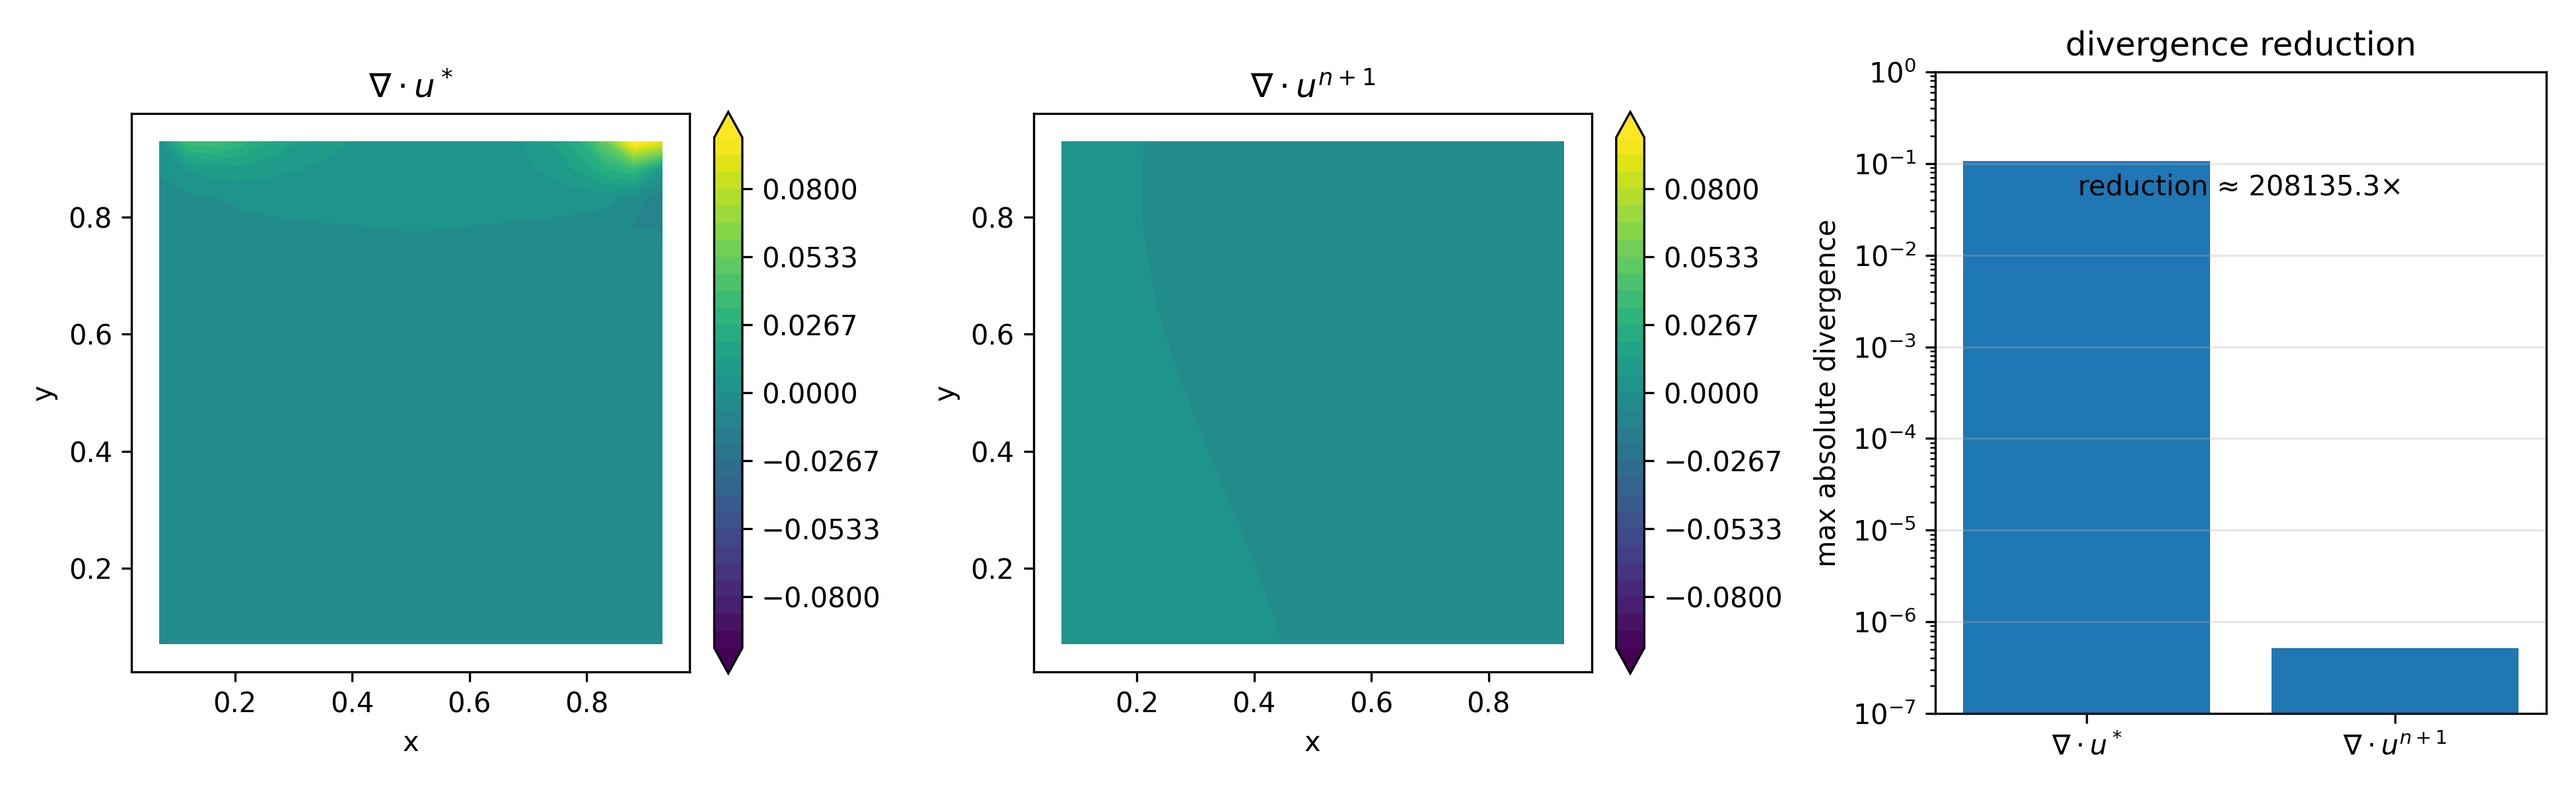
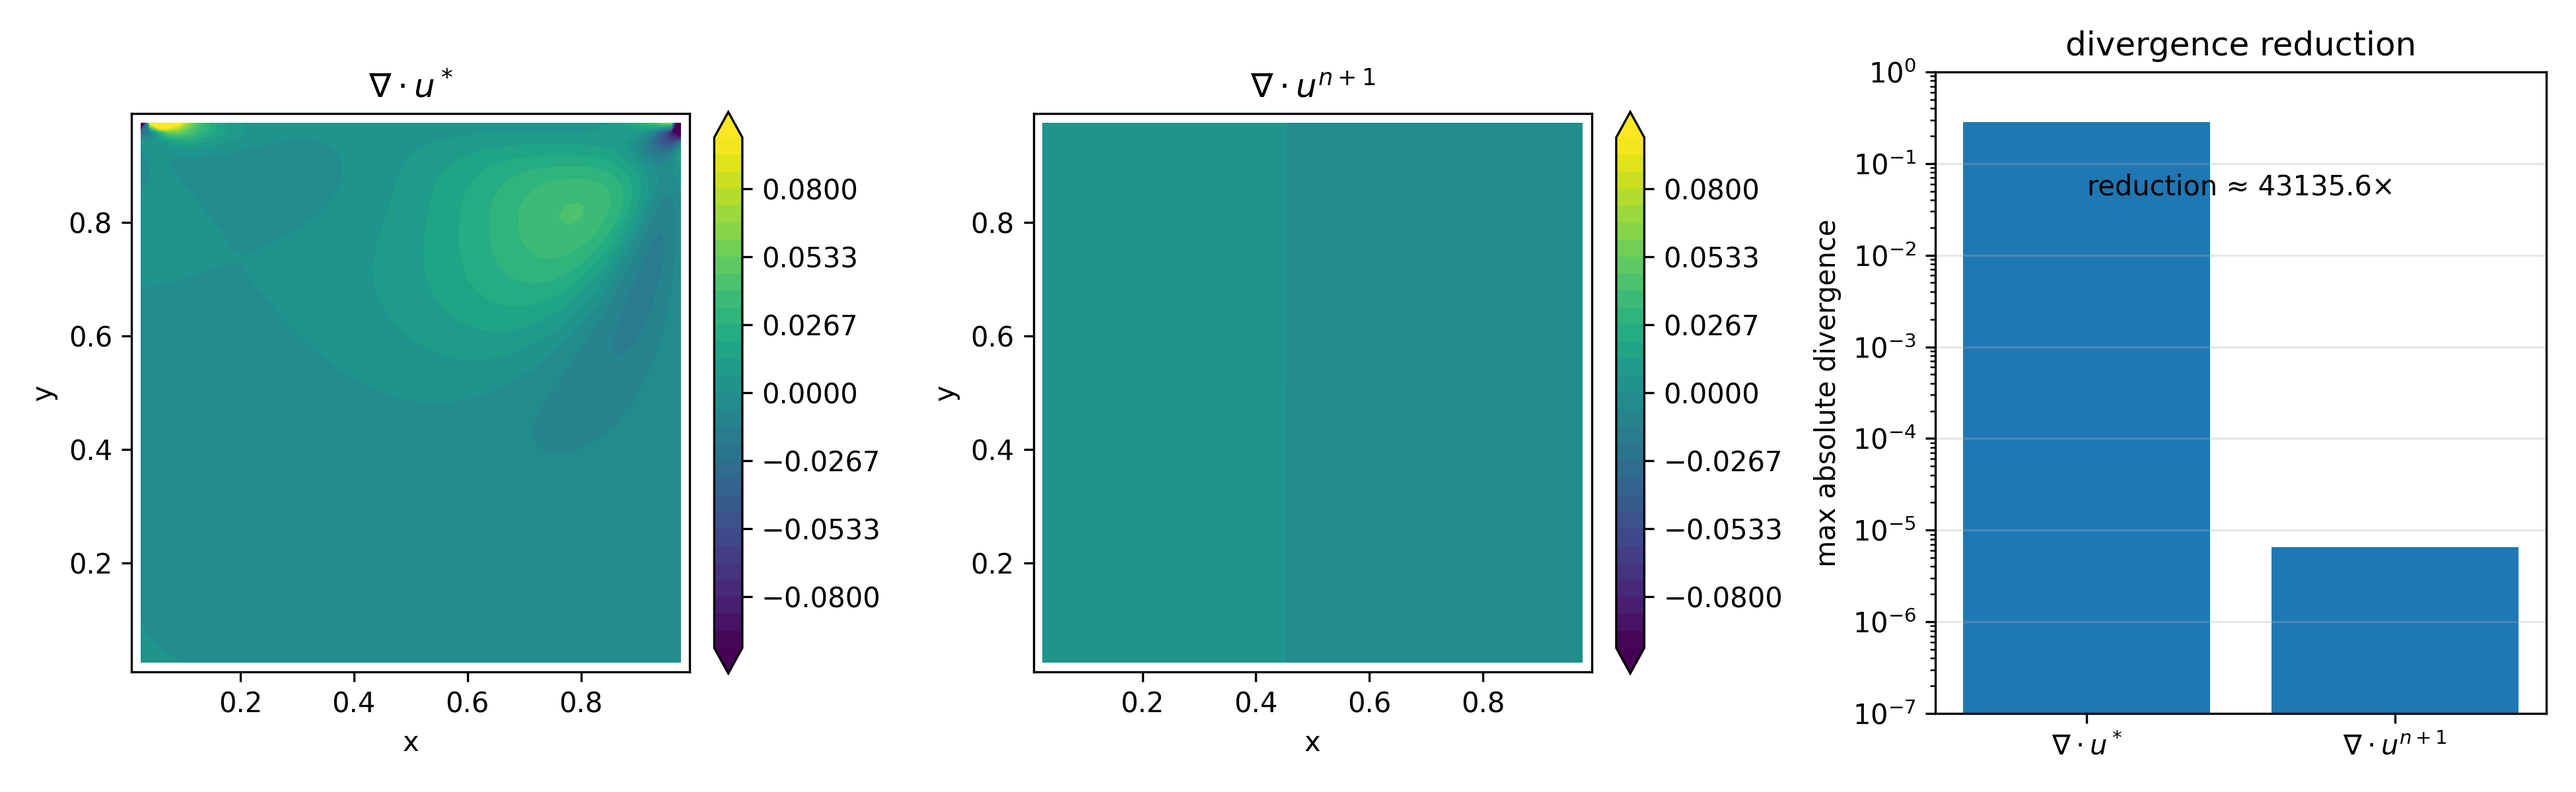
pre-submission update

diff --git a/grid_convergence_study.py b/grid_convergence_study.py
@@ -1,4 +1,5 @@
 import numpy as np
+import time
 
 from core import (
     setup_mac_grid_ghost,
@@ -15,6 +16,8 @@ def run_case(N, nsteps=5000, dt=5e-3, Re=100.0):
     dx, dy, _, _, _, Xp, Yp, _, _, _, _ = setup_mac_grid_ghost(N, N)
     nu = 1.0 / Re
 
+    start_time = time.perf_counter()
+
     history = run_ns_projection_mac_ghost(
         N, N, dx, dy,
         nsteps=nsteps,
@@ -29,10 +32,30 @@ def run_case(N, nsteps=5000, dt=5e-3, Re=100.0):
     final = history[-1]
     u_c, v_c = face_to_center_velocity_ghost(final["u"], final["v"])
 
+    end_time = time.perf_counter()
+
+    runtime_seconds = end_time - start_time
+
+    avg_poisson_iterations = np.mean([
+        frame["poisson_iterations"]
+        for frame in history
+    ])
+
+    max_poisson_iterations = np.max([
+        frame["poisson_iterations"]
+        for frame in history
+    ])
+
     ghia = get_ghia_re100_data()
     errors = compute_ghia_errors(u_c, v_c, Xp, Yp, ghia)
 
-    return errors, history
+    return (
+    errors,
+    history,
+    runtime_seconds,
+    avg_poisson_iterations,
+    max_poisson_iterations,
+    )
 
 if __name__ == "__main__":
     grid_list = [21, 31, 41, 51, 61]
@@ -45,7 +68,13 @@ if __name__ == "__main__":
     for N in grid_list:
         nsteps = 5000 
         print(f"\nRunning GHOST N = {N}, nsteps = {nsteps} ...")
-        errors, history = run_case(N, nsteps=nsteps)
+        (
+            errors,
+            history,
+            runtime_seconds,
+            avg_poisson_iterations,
+            max_poisson_iterations,
+        ) = run_case(N, nsteps=nsteps)
 
         final = history[-1]
 
@@ -58,6 +87,9 @@ if __name__ == "__main__":
         "max_div": np.max(np.abs(final["div_new"])),
         "vel_change": final["velocity_change"],
         "steps": len(history),
+        "runtime_seconds": runtime_seconds,
+        "avg_poisson_iterations": avg_poisson_iterations,
+        "max_poisson_iterations": max_poisson_iterations,
         })
 
         print(f"u_L2 = {errors['u_L2']:.4f}, v_L2 = {errors['v_L2']:.4f}")
@@ -74,7 +106,10 @@ if __name__ == "__main__":
             f"v_max={row['v_max']:.4f} | "
             f"max_div={row['max_div']:.2e} | "
             f"vel_change={row['vel_change']:.2e} | "
-            f"steps={row['steps']}"
+            f"steps={row['steps']} | "
+            f"runtime={row['runtime_seconds']:.1f}s | "
+            f"avg_poisson_iter={row['avg_poisson_iterations']:.1f} | "
+            f"max_poisson_iter={row['max_poisson_iterations']:.0f}"
         )
 
     plot_grid_convergence(grid_list, u_errors, v_errors)
@@ -102,6 +137,4 @@ if __name__ == "__main__":
             f"N={N1}->{N2}: "
             f"p_u = {p_u:.2f}, p_v = {p_v:.2f}"
         )
-
-
 

diff --git a/core.py b/core.py
@@ -112,7 +112,7 @@ def compute_laplacian_center(p, dx, dy):
     return lap
 
 def solve_poisson_sor_mac(
-    rhs, dx, dy, omega=1.7, max_iter=1000, tol=1e-6, verbose=False
+    rhs, dx, dy, omega=1.7, max_iter=1000, tol=1e-6, verbose=False, return_residual_history=False
 ):
     Nx, Ny = rhs.shape
 
@@ -122,6 +122,8 @@ def solve_poisson_sor_mac(
 
     inv_dx2 = 1.0 / dx**2
     inv_dy2 = 1.0 / dy**2
+
+    residual_history = []
 
     for it in range(max_iter):
         p_old = p.copy()
@@ -153,12 +155,16 @@ def solve_poisson_sor_mac(
         p -= np.mean(p)
 
         err = np.max(np.abs(p - p_old))
+        residual_history.append(err)
 
         if err < tol:
             if verbose:
                 print(f"SOR converged at iter {it}, err={err:.3e}")
             break
-
+            
+    if return_residual_history:
+        return p, residual_history
+    
     return p
 
 def project_velocity_mac_ghost(u_star, v_star, p, dx, dy, dt):
@@ -362,12 +368,13 @@ def step_ns_projection_mac_ghost(u, v, dx, dy, dt, nu, U_lid=1.0):
     rhs_max_interior = np.max(np.abs(rhs[1:-1, 1:-1]))
 
     # 5. Solve the pressure Poisson equation.
-    p = solve_poisson_sor_mac(
+    p, poisson_residual_history  = solve_poisson_sor_mac(
         rhs, dx, dy,
         omega=1.7,
         max_iter=1000,
         tol=1e-6,
         verbose=False,
+        return_residual_history=True,
     )
 
     # 6. Projection step.
@@ -398,6 +405,8 @@ def step_ns_projection_mac_ghost(u, v, dx, dy, dt, nu, U_lid=1.0):
         "cfl": cfl,
         "umax": umax,
         "vmax": vmax,
+        "poisson_residual_history": poisson_residual_history,
+        "poisson_iterations": len(poisson_residual_history),
     }
 
 def run_ns_projection_mac_ghost(
@@ -449,6 +458,8 @@ def run_ns_projection_mac_ghost(
             "cfl": results["cfl"],
             "umax": results["umax"],
             "vmax": results["vmax"],
+            "poisson_residual_history": results["poisson_residual_history"],
+            "poisson_iterations": results["poisson_iterations"],
         })
 
         if steady_tol is not None and (step + 1) >= min_steps:

diff --git a/run_projection_solver.py b/run_projection_solver.py
@@ -20,6 +20,8 @@ from plots import (
     animate_velocity_field,
     plot_projection_diagnostics_clean,
     plot_ghia_comparison_combined,
+    plot_divergence_history,
+    plot_poisson_residual_history,
 )
 
 from diag import (
@@ -108,6 +110,11 @@ print(
     final["vmax"]
 )
 
+u_min = np.min(u_c)
+v_min = np.min(v_c)
+
+print("final u_min =", u_min)
+print("final v_min =", v_min)
 # -------------------------------------------------
 # Plot
 # -------------------------------------------------
@@ -130,13 +137,26 @@ plot_ghia_comparison_combined(
 
 plot_streamlines(Xp, Yp, u_c, v_c, Re)
 
+plot_divergence_history(history)
 # -------------------------------------------------
 # Projection diagnostics
 # Use an intermediate frame to visualize divergence removal.
 # The final steady-state field has much weaker divergence, making
 # the projection effect less visible in the diagnostic plot.
 # -------------------------------------------------
-diag_frame = history[min(50, len(history) - 1)]
+diagnostic_step = 2000
+
+diag_frame = min(
+    history,
+    key=lambda frame: abs(frame["step"] - diagnostic_step)
+)
+
+plot_poisson_residual_history(diag_frame)
+
+print("Poisson diagnostic step =", diag_frame["step"])
+print("SOR iterations =", diag_frame["poisson_iterations"])
+print("initial SOR residual =", diag_frame["poisson_residual_history"][0])
+print("final SOR residual =", diag_frame["poisson_residual_history"][-1])
 
 diag_projection = plot_projection_diagnostics_clean(
     Xp,
@@ -146,8 +166,6 @@ diag_projection = plot_projection_diagnostics_clean(
     diag_frame["div_new"],
     Re,
 )
-
-print(diag_projection)
 
 anim = animate_velocity_field(
     history,
@@ -162,3 +180,4 @@ print("final speed max =", np.max(speed))
 print("final umax =", final["umax"])
 print("final vmax =", final["vmax"])
 print("final step =", final["step"])
+

diff --git a/plots.py b/plots.py
@@ -525,7 +525,41 @@ def plot_grid_convergence_loglog(grid_list, u_errors, v_errors):
 
     plt.show()
 
+def plot_divergence_history(history):
+    max_div_star_hist = [
+        np.max(np.abs(frame["div_star"]))
+        for frame in history
+    ]
 
+    max_div_new_hist = [
+        np.max(np.abs(frame["div_new"]))
+        for frame in history
+    ]
+
+    plt.figure(figsize=(6, 4))
+    plt.semilogy(max_div_star_hist, label=r"$\max|\nabla\cdot u^*|$")
+    plt.semilogy(max_div_new_hist, label=r"$\max|\nabla\cdot u^{n+1}|$")
+    plt.xlabel("Timestep")
+    plt.ylabel("Maximum divergence magnitude")
+    plt.title("Divergence reduction during projection")
+    plt.legend()
+    plt.grid(True, which="both")
+    plt.tight_layout()
+    plt.savefig("figures/divergence_history.png", dpi=300)
+    plt.show()
+
+def plot_poisson_residual_history(diag_frame):
+    residual_hist = diag_frame["poisson_residual_history"]
+
+    plt.figure(figsize=(6, 4))
+    plt.semilogy(residual_hist)
+    plt.xlabel("SOR iteration")
+    plt.ylabel("Poisson update residual")
+    plt.title(f"Poisson SOR residual history at timestep {diag_frame['step']}")
+    plt.grid(True, which="both")
+    plt.tight_layout()
+    plt.savefig("figures/poisson_sor_residual_history.png", dpi=300)
+    plt.show()
 
 # ============================================================
 # Legacy/debug plotting utilities
